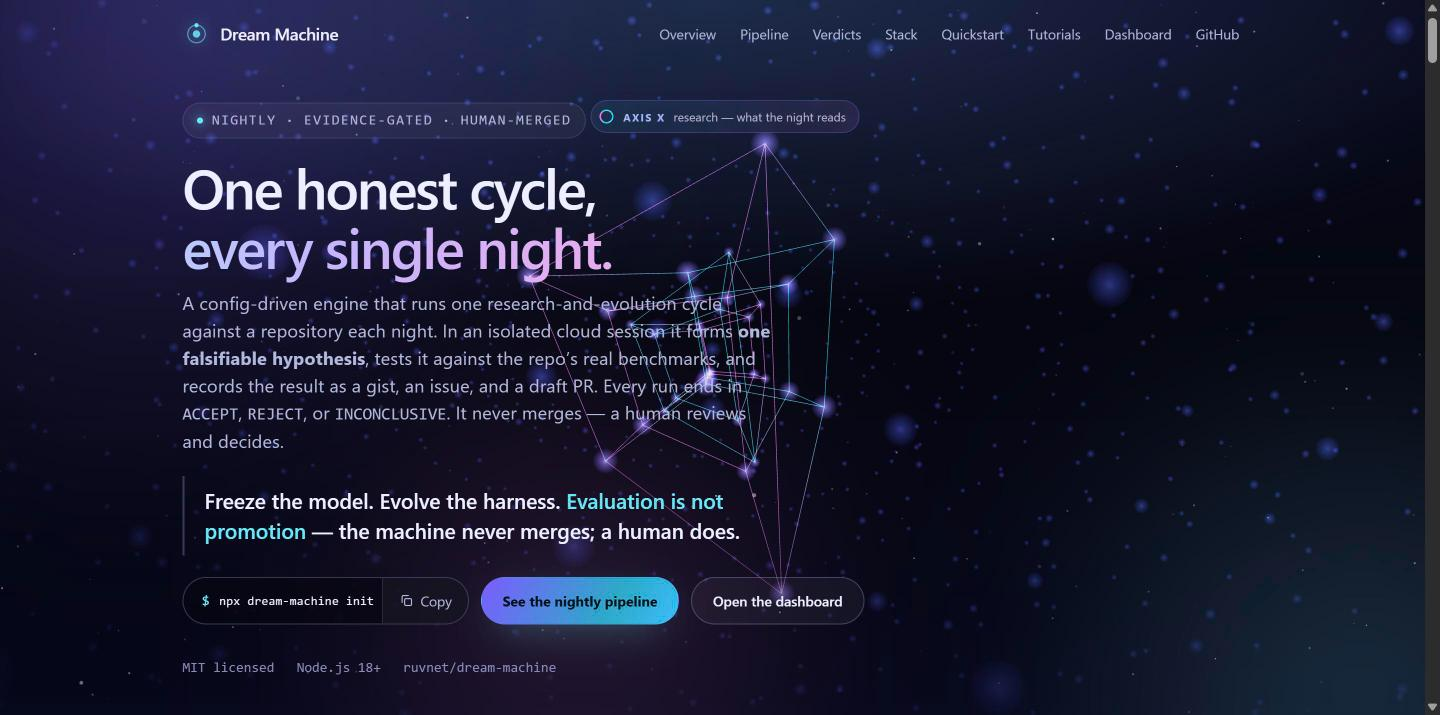
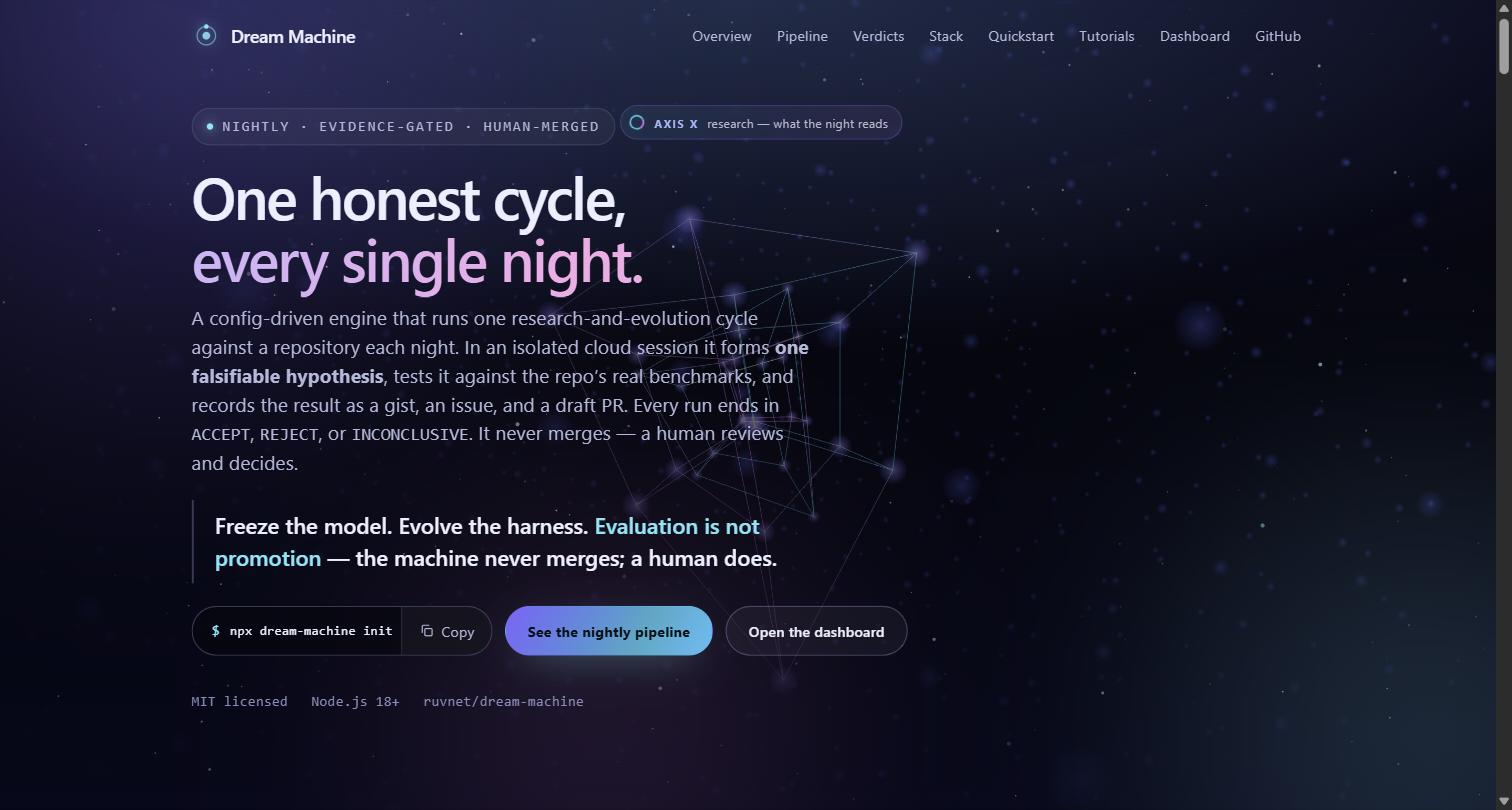
polish(site): fade the 4D tesseract for readability; add /schedule how-to to README
- .sky__gl opacity 0.9→0.5 + stronger mask over the hero copy (mobile 0.38)
- README: 'Schedule it — nightly, autonomous' section with Claude Code /schedule
  examples + self-hosting bootstrap; updated hero screenshot

diff --git a/docs/site/styles.css b/docs/site/styles.css
@@ -1620,10 +1620,11 @@ dl.fields dd {
   width: 100%;
   height: 100%;
   display: block;
-  opacity: 0.9;
-  /* keep the centre readable: fade the canvas where the hero copy sits */
-  -webkit-mask-image: radial-gradient(120% 90% at 78% 32%, #000 0%, #000 42%, rgba(0,0,0,0.35) 72%, rgba(0,0,0,0.12) 100%);
-  mask-image: radial-gradient(120% 90% at 78% 32%, #000 0%, #000 42%, rgba(0,0,0,0.35) 72%, rgba(0,0,0,0.12) 100%);
+  opacity: 0.5;
+  /* keep the copy readable: the canvas is brightest on the right, and fades
+     hard across the left half where the hero text sits */
+  -webkit-mask-image: radial-gradient(105% 85% at 82% 34%, #000 0%, rgba(0,0,0,0.85) 30%, rgba(0,0,0,0.28) 62%, rgba(0,0,0,0.06) 100%);
+  mask-image: radial-gradient(105% 85% at 82% 34%, #000 0%, rgba(0,0,0,0.85) 30%, rgba(0,0,0,0.28) 62%, rgba(0,0,0,0.06) 100%);
   pointer-events: none;
 }
 
@@ -1689,9 +1690,9 @@ dl.fields dd {
 /* ---- desktop + mobile friendly ---- */
 @media (max-width: 720px) {
   .sky__gl {
-    opacity: 0.6;
-    -webkit-mask-image: radial-gradient(140% 70% at 50% 22%, #000 0%, #000 38%, rgba(0,0,0,0.2) 82%, rgba(0,0,0,0.08) 100%);
-    mask-image: radial-gradient(140% 70% at 50% 22%, #000 0%, #000 38%, rgba(0,0,0,0.2) 82%, rgba(0,0,0,0.08) 100%);
+    opacity: 0.38;
+    -webkit-mask-image: radial-gradient(150% 65% at 55% 20%, #000 0%, rgba(0,0,0,0.55) 34%, rgba(0,0,0,0.16) 78%, rgba(0,0,0,0.05) 100%);
+    mask-image: radial-gradient(150% 65% at 55% 20%, #000 0%, rgba(0,0,0,0.55) 34%, rgba(0,0,0,0.16) 78%, rgba(0,0,0,0.05) 100%);
   }
   .dream4d-hud { font-size: 0.7rem; }
   .dream4d-hud__t { max-width: 62vw; }

diff --git a/README.md b/README.md
@@ -83,6 +83,52 @@ and per-night evidence — the same data the TUI shows.
 
 <div align="center"><img src="docs/media/dashboard.jpg" alt="The Dream Machine management console" width="100%"></div>
 
+## Schedule it — nightly, autonomous, always improving
+
+The Dream Machine is built to run itself on a schedule. In **Claude Code**, the
+built-in **`/schedule`** command creates a cloud routine that runs the pipeline
+against your repo every night — autonomous research, evaluation, and
+improvement that compounds while you sleep.
+
+**1 — generate the routine body from your config:**
+
+```bash
+npx dream-machine schedule dream.config.json --env <your-cloud-env-id> --out routine.json
+```
+
+**2 — create the routine.** In Claude Code, run `/schedule` and create a routine
+on cron `0 9 * * *` (UTC) with the body from `routine.json`.
+
+**Self-hosting bootstrap (recommended).** Instead of freezing a prompt, point the
+routine at a tiny bootstrap that compiles tonight's instructions from your
+committed `dream.config.json` — so the schedule can never drift from the repo:
+
+```text
+You are the Dream Machine nightly runner for <owner/repo>, checked out on main.
+
+1. npm ci && npm run build          # build the engine (wasm failure is a recorded degradation)
+2. npx dream-machine compile dream.config.json --out /tmp/tonight.md
+3. Follow /tmp/tonight.md exactly — the full 26-step pipeline.
+
+Invariants: end in ACCEPT | REJECT | INCONCLUSIVE. Never merge, never
+self-promote. Publish a gist + a labeled issue + a DRAFT PR, and append exactly
+one row to docs/dream-cycle/LEDGER.md every run.
+```
+
+**What each night does** — research SOTA for tonight's rotation surface → freeze a
+falsifiable hypothesis → build a concrete candidate → evaluate parent vs.
+candidate on your real benchmarks → adversarial critique + reward-hack check →
+bounded Darwin evolution → witnessed evidence → gist + issue + **draft** PR → one
+ledger row. Win, lose, or draw, it records what it learned so tomorrow's search
+space is smaller. **This repository runs exactly this loop on itself** (cron
+`0 9 * * *`) — browse its
+[dream-cycle issues](https://github.com/ruvnet/dream-machine/issues?q=label%3Adream-cycle),
+gists, and draft PRs to see it in action.
+
+> No `dream.config`? `npx dream-machine init --repo owner/name` scaffolds one.
+> A night with no API key still runs — it reports `LLM_EVAL=blocked`, an honest
+> `INCONCLUSIVE`, rather than faking a result.
+
 ## What it composes (never reimplements)
 
 The heavy stages delegate to the ruvnet stack as **optional, config-selected
